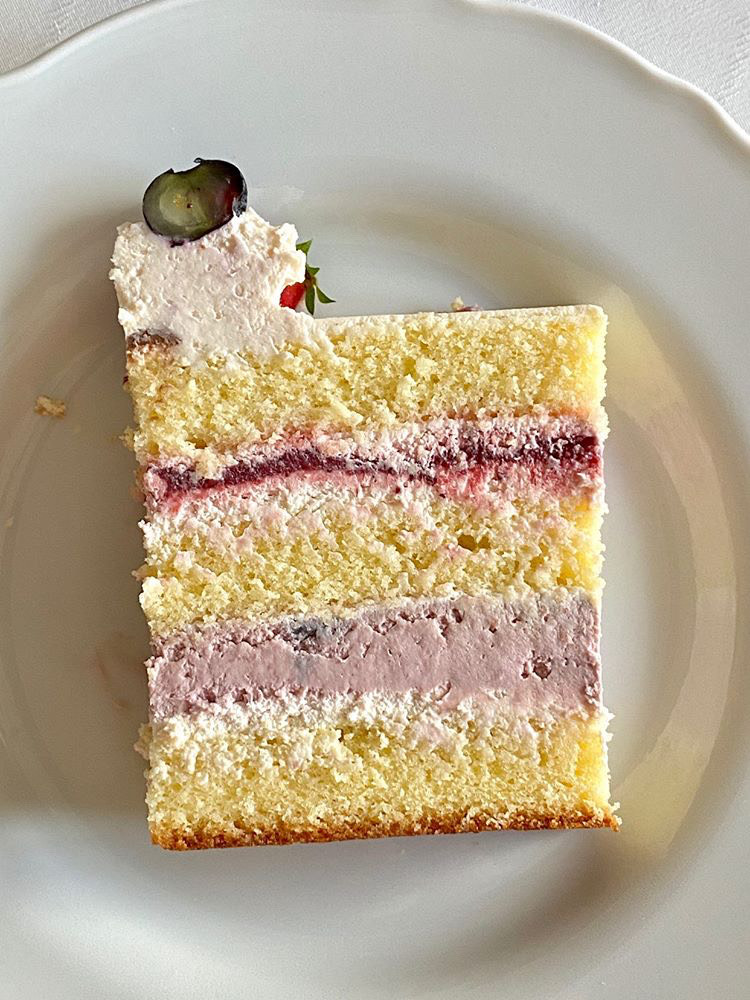
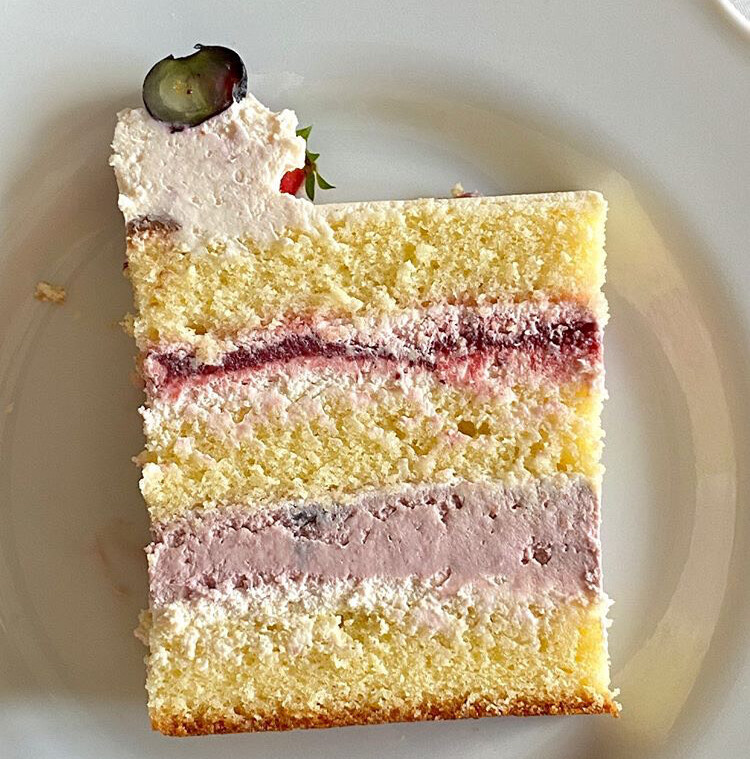
dd

diff --git a/layercakes.html b/layercakes.html
@@ -85,7 +85,7 @@
             <div class="row">
                 <div class="col-md-6">
                     <div class="blog-post">
-                        <img src="img/layercakes1.jpg" alt="">
+                        <img src="img/layercakes1.png" alt="">
                         <div class="right-content">
                         <div class="text-button">
                             <span>Philadelphia</span>
